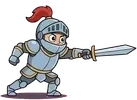
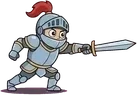
fix: trim sprites to content pixels, height-based sizing for consistent character scale

Changed region(s): [[0.0292, 0.0, 1.0, 0.9895], [0.0, 0.9474, 0.0292, 0.9895], [0.3212, 0.8842, 0.3504, 0.9053]]

diff --git a/src/components/EnemyCharacter.jsx b/src/components/EnemyCharacter.jsx
@@ -653,8 +653,8 @@ export function EnemyCharacter({ phase, enemy, hitKey, raging = false }) {
         <motion.div animate={moveControls} style={{ willChange: 'transform' }}>
           {rasterSprites ? (
             /* Raster: sprite already faces left — no scaleX needed */
-            <div style={{ position: 'relative', display: 'flex', alignItems: 'flex-end', justifyContent: 'center' }}>
-              <img key={sprite} src={rasterSprites[sprite]} style={{ maxHeight: 'min(130px, 28vw)', maxWidth: 'min(200px, 44vw)', width: 'auto', height: 'auto', display: 'block' }} alt="" />
+            <div style={{ position: 'relative', width: 'min(100px, 22vw)', height: 'min(120px, 26vw)', overflow: 'visible' }}>
+              <img key={sprite} src={rasterSprites[sprite]} style={{ position: 'absolute', bottom: 0, left: '50%', transform: 'translateX(-50%)', height: '100%', width: 'auto' }} alt="" />
               <AnimatePresence>
                 {splashKey !== null && <HitSplash key={splashKey} color={rasterSprites.splashColor} />}
               </AnimatePresence>

diff --git a/src/components/KnightCharacter.jsx b/src/components/KnightCharacter.jsx
@@ -254,11 +254,11 @@ export function KnightCharacter({ phase, hitKey, useRaster }) {
         <motion.div animate={moveControls} style={{ willChange: 'transform' }}>
           {raster ? (
             /* ── Raster sprite swap mode ── */
-            <div style={{ display: 'flex', alignItems: 'flex-end', justifyContent: 'center' }}>
+            <div style={{ position: 'relative', width: 'min(100px, 22vw)', height: 'min(120px, 26vw)', overflow: 'visible' }}>
               <img
                 key={sprite}
                 src={SPRITES[sprite]}
-                style={{ maxHeight: 'min(130px, 28vw)', maxWidth: 'min(200px, 44vw)', width: 'auto', height: 'auto', display: 'block' }}
+                style={{ position: 'absolute', bottom: 0, left: '50%', transform: 'translateX(-50%)', height: '100%', width: 'auto' }}
                 alt=""
               />
               <AnimatePresence>
